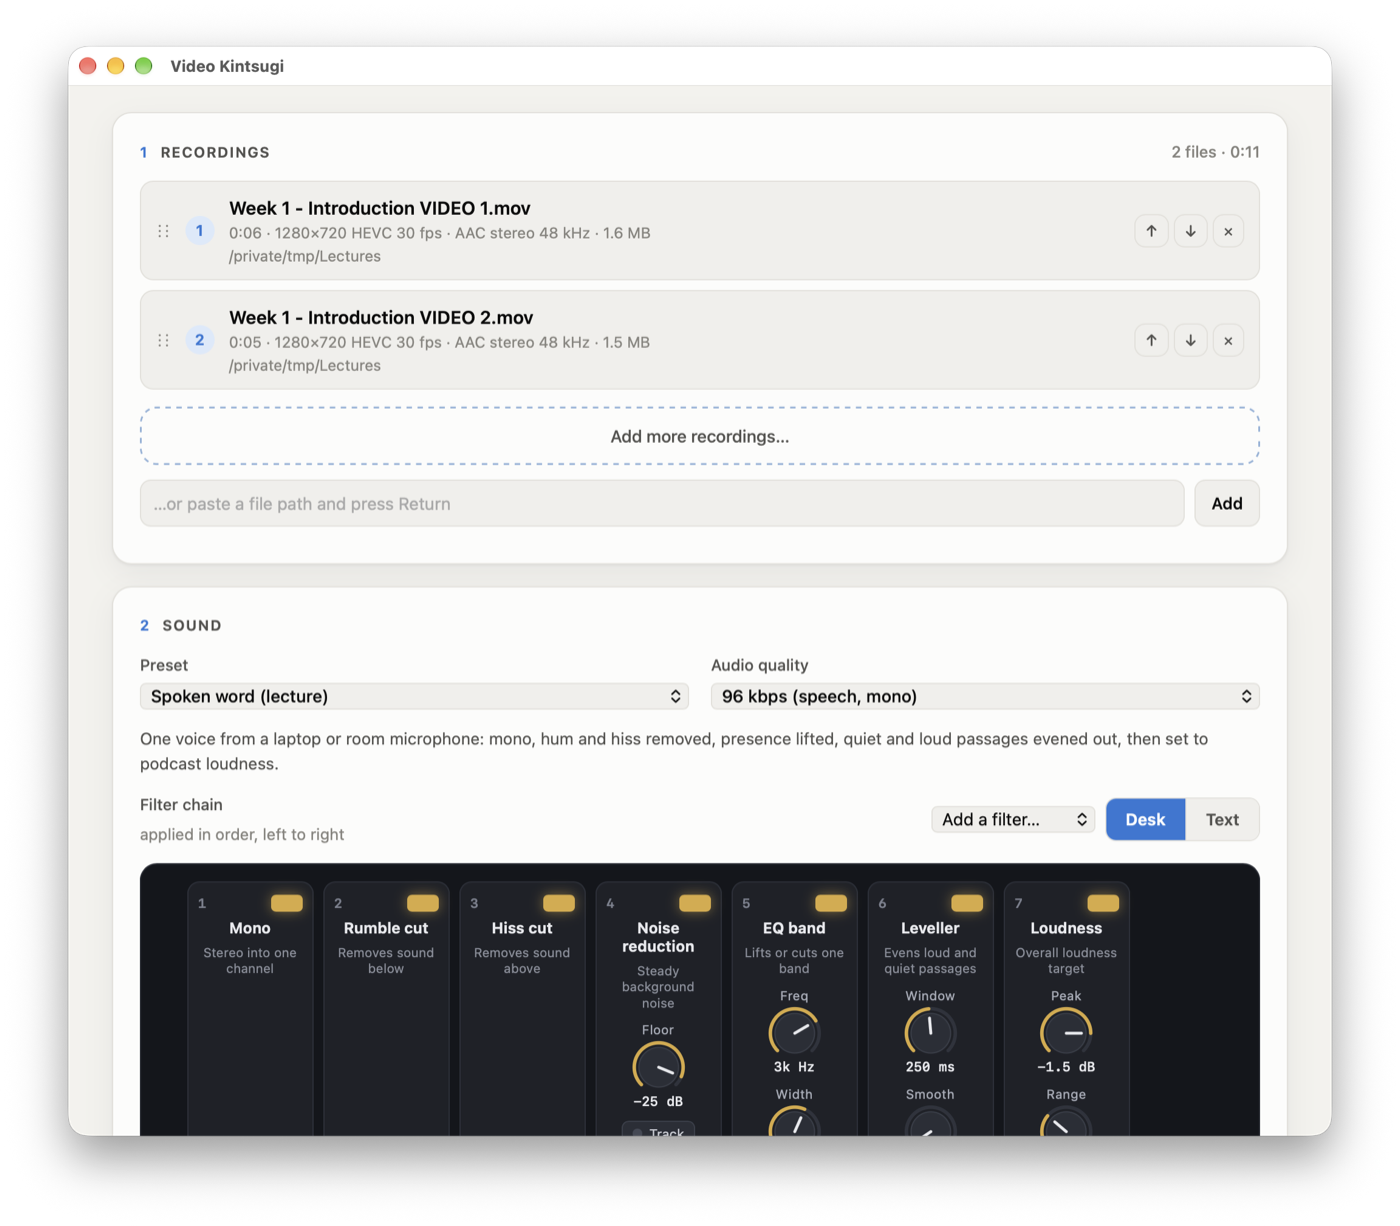
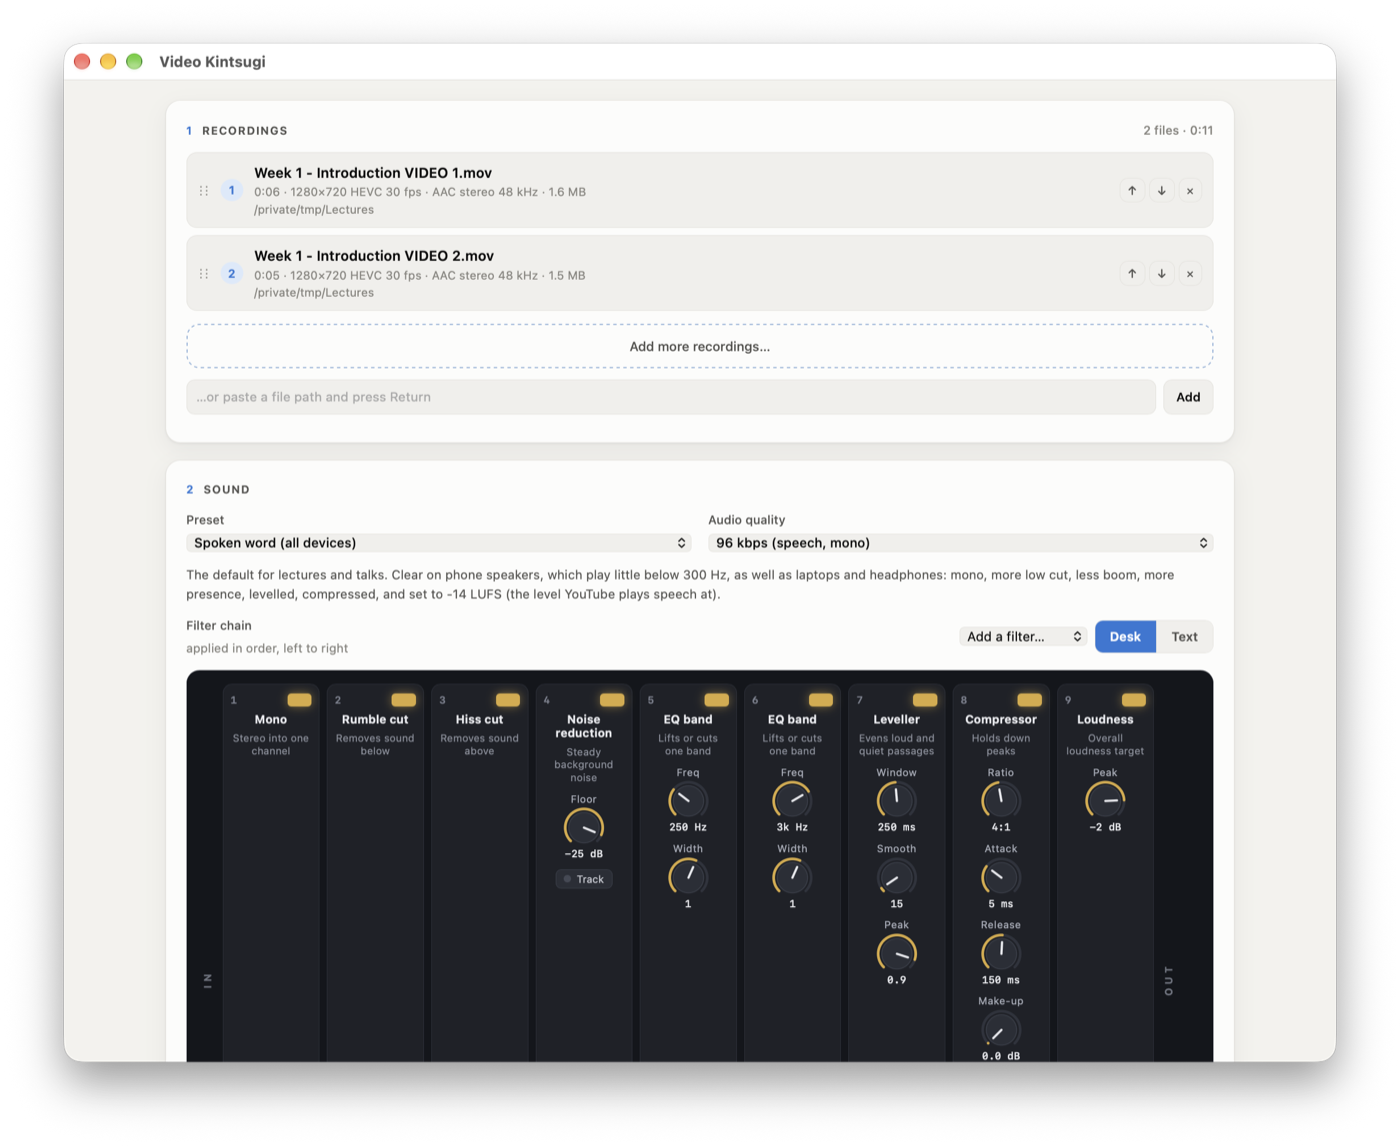
Spoken word (all devices) is the default preset
The phone-tuned chain at -14 LUFS, renamed and listed first; the -16 LUFS lecture preset becomes
Spoken word, podcast level. The other speech presets now aim at -14 as well, and the page is
wide enough for a nine-strip desk.

diff --git a/desk.js b/desk.js
@@ -56,7 +56,7 @@ const Desk = (() => {
         write: (v) => v + "dB" })] },
     loudnorm: { title: "Loudness", what: "Overall loudness target",
       params: [P(["TP", "tp"], "Peak", -9, -0.5, -2, { unit: " dB", step: 0.5 }),
-               P(["I", "i"], "Target", -36, -10, -24, { unit: " LUFS", fader: true, step: 0.5 })] },
+               P(["I", "i"], "Target", -36, -10, -14, { unit: " LUFS", fader: true, step: 0.5 })] },
   };
   const ADDABLE = ["highpass", "lowpass", "afftdn", "anlmdn", "agate", "equalizer", "deesser", "acompressor",
                    "dynaudnorm", "speechnorm", "adeclick", "adeclip", "volume", "loudnorm", "pan"];
@@ -66,7 +66,7 @@ const Desk = (() => {
     equalizer: "equalizer=f=3000:t=q:w=1:g=3", deesser: "deesser=i=0.4",
     acompressor: "acompressor=threshold=0.1:ratio=3:attack=20:release=250",
     dynaudnorm: "dynaudnorm=f=250:g=15:p=0.9:m=8", speechnorm: "speechnorm=e=6:r=0.0001:l=1",
-    adeclick: "adeclick", adeclip: "adeclip", volume: "volume=3dB", loudnorm: "loudnorm=I=-16:TP=-2",
+    adeclick: "adeclick", adeclip: "adeclip", volume: "volume=3dB", loudnorm: "loudnorm=I=-14:TP=-2",
   };
 
   let ta, root, onChange;

diff --git a/app.js b/app.js
@@ -18,7 +18,7 @@ const FILTERS = [
   ["adeclick", "Remove clicks and pops.", "adeclick"],
   ["adeclip", "Repair speech that was recorded too loud and clipped.", "adeclip"],
   ["volume", "Change the level by a fixed amount.", "volume=3dB"],
-  ["loudnorm", "Set the overall loudness, measured over the whole recording first. I=-14 matches YouTube and suits phones; -16 suits podcasts; -23 is broadcast. TP is the peak ceiling.", "loudnorm=I=-16:TP=-2"],
+  ["loudnorm", "Set the overall loudness, measured over the whole recording first. I=-14 matches YouTube and suits phones; -16 suits podcasts; -23 is broadcast. TP is the peak ceiling.", "loudnorm=I=-14:TP=-2"],
 ];
 
 let files = [];
@@ -719,6 +719,10 @@ document.addEventListener("keydown", (e) => {
   $("pvlen").value = prefs.pvlen || 20;
   $("pvauto").checked = prefs.pvauto !== false;
   outdir = prefs.outdir || "";
+  if (!prefs.allDevices) {   // 0.1.4 made "Spoken word (all devices)" the default; start there once
+    delete prefs.preset;
+    prefs.allDevices = true;
+  }
   showDir();
   Desk.init($("filters"), $("desk"), $("addfilter"), chainChanged);
   selectPreset(prefs.preset);

diff --git a/index.html b/index.html
@@ -71,7 +71,7 @@ a { color: var(--accent); }
 .menu kbd { margin-left: auto; font: inherit; font-size: 12.5px; color: var(--text-3); }
 .menu hr { border: 0; border-top: 1px solid var(--border); margin: 5px 6px; }
 
-main { max-width: 1000px; margin: 0 auto; padding: 22px 16px 70px; display: grid; gap: 18px; }
+main { max-width: 1180px; margin: 0 auto; padding: 22px 16px 70px; display: grid; gap: 18px; }
 main > * { min-width: 0; }
 .card { background: var(--surface); border: 1px solid var(--border); border-radius: 16px; padding: 22px; box-shadow: var(--shadow); min-width: 0; }
 h2 { font-size: 12px; font-weight: 650; text-transform: uppercase; letter-spacing: .08em; color: var(--text-2); margin: 0 0 14px; display: flex; align-items: baseline; gap: 10px; }

diff --git a/kintsugi.py b/kintsugi.py
@@ -48,21 +48,22 @@ PREVIEW_SECONDS = 20
 IDLE_SECONDS = 15 * 60    # exit when no page has polled for this long and nothing is running
 
 DEFAULT_PRESETS = [
-    {"id": "lecture", "name": "Spoken word (lecture)", "bitrate": "96k",
-     "about": "One voice from a laptop or room microphone: mono, hum and hiss removed, "
-              "presence lifted, quiet and loud passages evened out, then set to podcast loudness.",
-     "filters": ["pan=mono|c0=0.5*c0+0.5*c1", "highpass=f=90", "lowpass=f=8000", "afftdn=nf=-25",
-                 "equalizer=f=3000:t=q:w=1:g=3", "dynaudnorm=f=250:g=15:p=0.9:m=8",
-                 "loudnorm=I=-16:TP=-2"]},
-    {"id": "phones", "name": "Spoken word, for phones", "bitrate": "96k",
-     "about": "For viewers on phone and tablet speakers, which play little below 300 Hz: more low cut, "
-              "less boom, more presence, compressed, and set louder (-14 LUFS, as YouTube plays speech).",
+    {"id": "devices", "name": "Spoken word (all devices)", "bitrate": "96k",
+     "about": "The default for lectures and talks. Clear on phone speakers, which play little below "
+              "300 Hz, as well as laptops and headphones: mono, more low cut, less boom, more presence, "
+              "levelled, compressed, and set to -14 LUFS (the level YouTube plays speech at).",
      "filters": ["pan=mono|c0=0.5*c0+0.5*c1", "highpass=f=150", "lowpass=f=9000", "afftdn=nf=-25",
                  "equalizer=f=250:t=q:w=1:g=-3", "equalizer=f=3000:t=q:w=1:g=5",
                  "dynaudnorm=f=250:g=15:p=0.9:m=8",
                  "acompressor=threshold=0.1:ratio=4:attack=5:release=150", "loudnorm=I=-14:TP=-2"]},
+    {"id": "lecture", "name": "Spoken word, podcast level", "bitrate": "96k",
+     "about": "One voice, set to -16 LUFS, the level podcast platforms expect: mono, hum and hiss "
+              "removed, presence lifted, quiet and loud passages evened out. Quieter on phones.",
+     "filters": ["pan=mono|c0=0.5*c0+0.5*c1", "highpass=f=90", "lowpass=f=8000", "afftdn=nf=-25",
+                 "equalizer=f=3000:t=q:w=1:g=3", "dynaudnorm=f=250:g=15:p=0.9:m=8",
+                 "loudnorm=I=-16:TP=-2"]},
     {"id": "compressed", "name": "Spoken word, compressed", "bitrate": "96k",
-     "about": "The lecture preset with a compressor after the levelling, which catches sudden "
+     "about": "The podcast-level preset with a compressor after the levelling, which catches sudden "
               "peaks (laughs, coughs, a raised voice, hard consonants) phrase by phrase.",
      "filters": ["pan=mono|c0=0.5*c0+0.5*c1", "highpass=f=90", "lowpass=f=8000", "afftdn=nf=-25",
                  "equalizer=f=3000:t=q:w=1:g=3",
@@ -73,24 +74,24 @@ DEFAULT_PRESETS = [
               "background noise (fans, air conditioning, traffic).",
      "filters": ["pan=mono|c0=0.5*c0+0.5*c1", "highpass=f=100", "lowpass=f=7500",
                  "afftdn=nr=20:nf=-20:tn=1", "equalizer=f=3000:t=q:w=1:g=4",
-                 "dynaudnorm=f=250:g=15:p=0.9:m=8", "loudnorm=I=-16:TP=-2"]},
+                 "dynaudnorm=f=250:g=15:p=0.9:m=8", "loudnorm=I=-14:TP=-2"]},
     {"id": "far", "name": "Speaker far from the microphone", "bitrate": "96k",
      "about": "For a speaker who moves about or turns away: heavier levelling that lifts "
               "quiet stretches further, so expect more room sound between phrases.",
      "filters": ["pan=mono|c0=0.5*c0+0.5*c1", "highpass=f=80", "lowpass=f=8000", "afftdn=nf=-25",
                  "equalizer=f=2500:t=q:w=1:g=4", "dynaudnorm=f=150:g=31:p=0.9:m=20",
-                 "loudnorm=I=-16:TP=-2"]},
+                 "loudnorm=I=-14:TP=-2"]},
     {"id": "discussion", "name": "Discussion, several voices", "bitrate": "128k",
      "about": "Keeps stereo, so voices stay where they were; removes rumble and hiss and "
               "evens out loud and quiet speakers more gently.",
      "filters": ["highpass=f=80", "afftdn=nf=-28", "dynaudnorm=f=300:g=21:p=0.9:m=6",
-                 "loudnorm=I=-16:TP=-2"]},
+                 "loudnorm=I=-14:TP=-2"]},
     {"id": "light", "name": "Light clean-up", "bitrate": "160k",
      "about": "Stereo, rumble and faint hiss removed, loudness set. Leaves the dynamics alone.",
-     "filters": ["highpass=f=60", "afftdn=nf=-30", "loudnorm=I=-16:TP=-2"]},
+     "filters": ["highpass=f=60", "afftdn=nf=-30", "loudnorm=I=-14:TP=-2"]},
     {"id": "loudness", "name": "Loudness only", "bitrate": "160k",
      "about": "No cleaning: only brings the whole recording to a standard loudness.",
-     "filters": ["loudnorm=I=-16:TP=-2"]},
+     "filters": ["loudnorm=I=-14:TP=-2"]},
     {"id": "none", "name": "No change (join only)", "bitrate": "",
      "about": "The audio is copied as it is when the files allow it, otherwise re-encoded unchanged.",
      "filters": []},

diff --git a/README.md b/README.md
@@ -13,7 +13,7 @@ The originals are never changed. The result is saved beside the first recording 
 
 ## The sound
 
-<p align="center"><img src="branding/screenshot.png" alt="The filter chain as a mixing desk: seven channel strips from Mono to Loudness, each with an on/off light, knobs and a fader" width="80%"></p>
+<p align="center"><img src="branding/screenshot.png" alt="The default preset, Spoken word (all devices), as a mixing desk: nine channel strips from Mono to Loudness, each with an on/off light, knobs and a fader" width="80%"></p>
 
 The sound goes through a chain of FFmpeg audio filters, shown as a mixing desk with one channel strip per filter, worked from left to right. Each strip has a light that switches it on or off, knobs for its settings and a fader for its main one. Knobs turn by dragging up or down (hold Shift for fine control), by scrolling or with the arrow keys; a double-click resets a knob or fader. **Add a filter** puts a new strip before the final loudness stage. The **Text** view shows the same chain as FFmpeg reads it, one filter per line, and can be edited directly; a line starting with `#` is bypassed.
 
@@ -25,10 +25,10 @@ The presets are starting points:
 
 | Preset | For |
 |---|---|
-| Spoken word (lecture) | One voice from a laptop or room microphone: mono, rumble and hiss removed, presence lifted, levels evened out, set to −16 LUFS (podcast level) |
-| Spoken word, for phones | For viewers on phone and tablet speakers: more low cut, less boom, more presence, compressed, and set to −14 LUFS (the level YouTube plays speech at) |
-| Spoken word, compressed | The lecture preset with a compressor after the levelling, to catch sudden peaks such as laughs, coughs or a raised voice |
-| Spoken word, noisy room | The same, with stronger noise reduction that follows changing noise (fans, air conditioning) |
+| **Spoken word (all devices)** — the default | Lectures and talks for viewers on phones, laptops or headphones: mono, more low cut, less boom, more presence, levelled, compressed, set to −14 LUFS (the level YouTube plays speech at) |
+| Spoken word, podcast level | One voice set to −16 LUFS, the level podcast platforms expect; quieter on phones |
+| Spoken word, compressed | The podcast-level preset with a compressor after the levelling, to catch sudden peaks such as laughs, coughs or a raised voice |
+| Spoken word, noisy room | Stronger noise reduction that follows changing noise (fans, air conditioning) |
 | Speaker far from the microphone | Heavier levelling for a speaker who moves about or turns away |
 | Discussion, several voices | Keeps stereo; gentler levelling across loud and quiet speakers |
 | Light clean-up | Stereo, rumble and faint hiss removed, loudness set |
